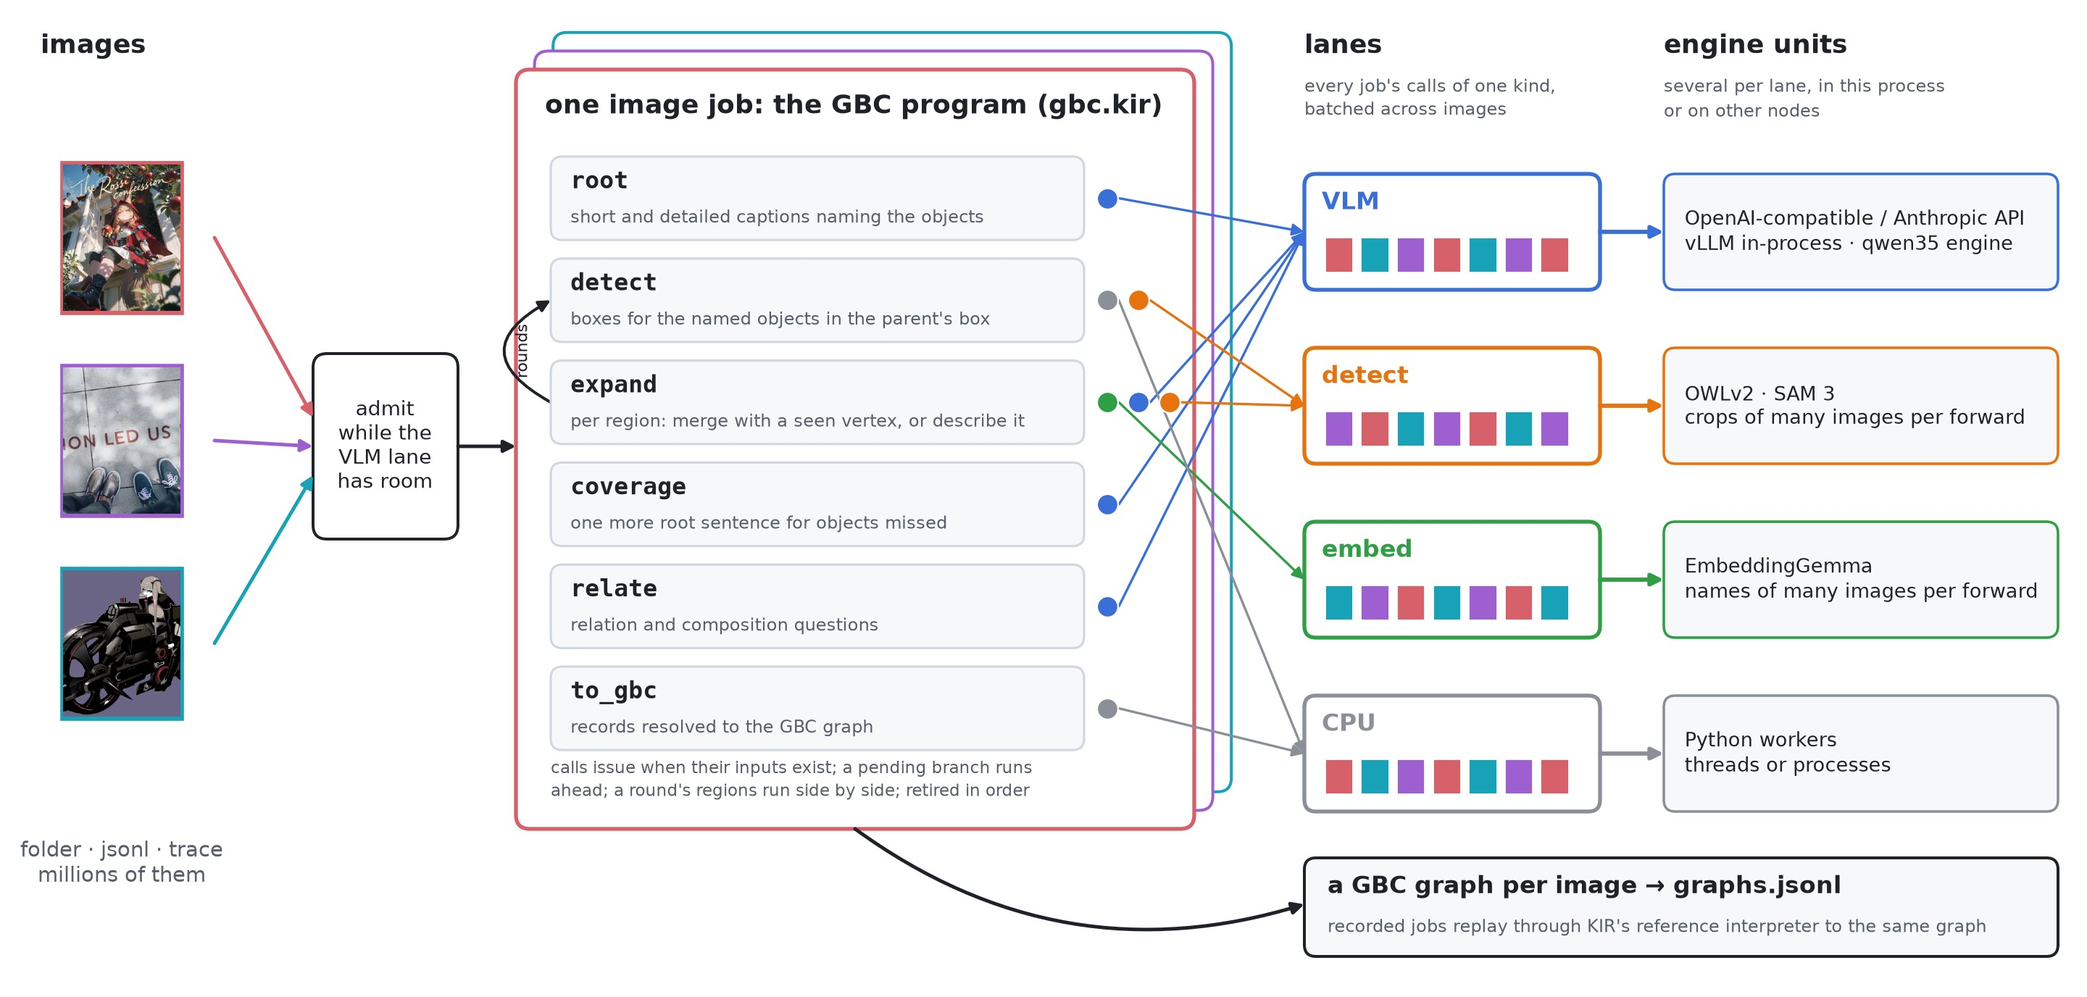
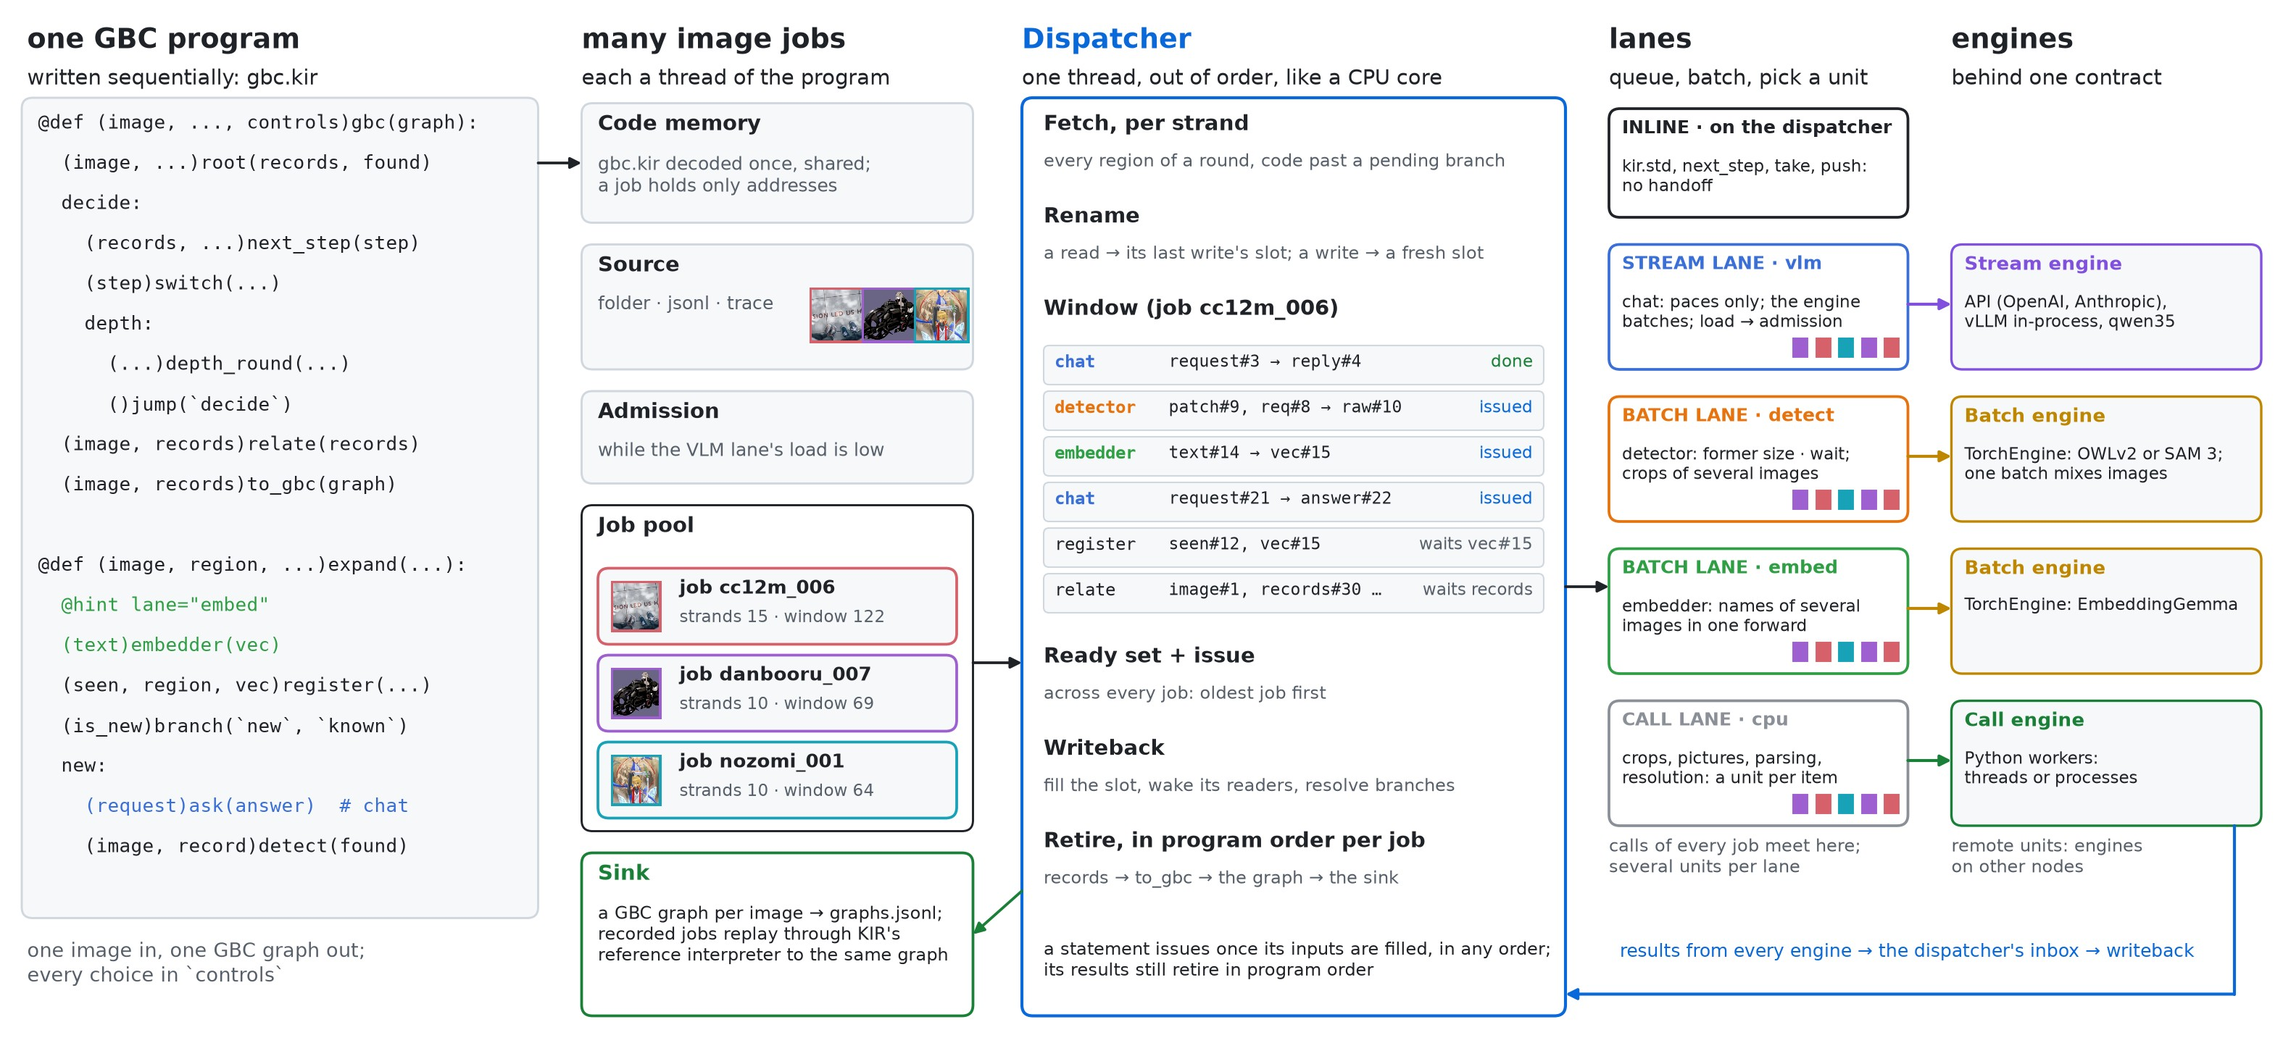
Architecture teaser in the Togeari machine's shape
One GBC program; many image jobs (code memory, source, admission, a job pool of recorded jobs,
the sink); the dispatcher's out-of-order core with a job's window of GBC statements; the inline,
VLM stream, detect and embed batch and CPU call lanes; the engines behind them; completions back
to the dispatcher.

diff --git a/scripts/docs/architecture.py b/scripts/docs/architecture.py
@@ -1,14 +1,19 @@
-"""The README's architecture view: KohakuGBC as one picture.
+"""The README's architecture teaser: GBC on the Togeari machine, in Togeari's own shape.
 
-Images enter through admission; each becomes a job running the one GBC program (its steps in
-order, each marked with the lanes it calls); the calls of every job meet on four lanes, which
-batch them across images onto the engine units behind them; each job ends as a GBC graph, and a
-recorded job replays through KIR's reference interpreter to the same graph.
+Five columns, left to right: the one GBC program (gbc.kir); the image jobs (code memory, the
+source, admission, the job pool with real jobs of a recorded run, the sink); the dispatcher, an
+out-of-order core (fetch per strand, rename, a job's window of GBC statements, issue, writeback,
+retire in program order); the lanes (inline, the VLM stream lane, the detect and embed batch
+lanes, the CPU call lane); the engines behind them. Completions return to the dispatcher's inbox.
 
-    python scripts/docs/architecture.py IMAGE [IMAGE ...] docs/assets/architecture.jpg
+    python scripts/docs/architecture.py JOBS.json docs/assets/architecture.jpg
+
+``JOBS.json``: ``[{"image": path, "key": ..., "calls": ..., "strands": ..., "window": ...,
+"vlm": ...}]``, three jobs of a recorded run (``job.end`` events' stats).
 """
 
 import argparse
+import json
 import sys
 
 import matplotlib.pyplot as plt
@@ -17,150 +22,220 @@ from matplotlib.offsetbox import AnnotationBbox, OffsetImage
 from PIL import Image, ImageOps
 
 INK, MUTED, PAPER, CARD, LINE = "#1f2328", "#57606a", "#ffffff", "#f6f8fa", "#d0d7de"
-LANES = {
-    "vlm": ("#3b6fd8", "VLM"),
-    "detect": ("#e6730d", "detect"),
-    "embed": ("#2f9e44", "embed"),
-    "cpu": ("#8a8f98", "CPU"),
-}
-JOBS = ["#d6616b", "#9e5fd1", "#17a2b8"]
-STEPS = [
-    ("root", "short and detailed captions naming the objects", ["vlm"]),
-    ("detect", "boxes for the named objects in the parent's box", ["cpu", "detect"]),
-    ("expand", "per region: merge with a seen vertex, or describe it", ["embed", "vlm", "detect"]),
-    ("coverage", "one more root sentence for objects missed", ["vlm"]),
-    ("relate", "relation and composition questions", ["vlm"]),
-    ("to_gbc", "records resolved to the GBC graph", ["cpu"]),
+BLUE, VIOLET, GOLD, GREEN, GREY = "#0969da", "#8250df", "#bf8700", "#1a7f37", "#6e7781"
+LANE = {"vlm": "#3b6fd8", "detect": "#e6730d", "embed": "#2f9e44", "cpu": "#8a8f98"}
+JOB = ["#d6616b", "#9e5fd1", "#17a2b8"]
+
+CODE = [
+    "@def (image, ..., controls)gbc(graph):",
+    "  (image, ...)root(records, found)",
+    "  decide:",
+    "    (records, ...)next_step(step)",
+    "    (step)switch(...)",
+    "    depth:",
+    "      (...)depth_round(...)",
+    "      ()jump(`decide`)",
+    "  (image, records)relate(records)",
+    "  (image, records)to_gbc(graph)",
+    "",
+    "@def (image, region, ...)expand(...):",
+    '  @hint lane="embed"',
+    "  (text)embedder(vec)",
+    "  (seen, region, vec)register(...)",
+    "  (is_new)branch(`new`, `known`)",
+    "  new:",
+    "    (request)ask(answer)  # chat",
+    "    (image, record)detect(found)",
 ]
-ENGINES = {
-    "vlm": "OpenAI-compatible / Anthropic API\nvLLM in-process · qwen35 engine",
-    "detect": "OWLv2 · SAM 3\ncrops of many images per forward",
-    "embed": "EmbeddingGemma\nnames of many images per forward",
-    "cpu": "Python workers\nthreads or processes",
-}
+WINDOW = [
+    ("chat", "request#3 → reply#4", "done"),
+    ("detector", "patch#9, req#8 → raw#10", "issued"),
+    ("embedder", "text#14 → vec#15", "issued"),
+    ("chat", "request#21 → answer#22", "issued"),
+    ("register", "seen#12, vec#15", "waits vec#15"),
+    ("relate", "image#1, records#30 …", "waits records"),
+]
 
 
-def box(ax, x, y, w, h, face=CARD, edge=LINE, lw=1.6, radius=0.12, z=1):
-    style = f"round,pad=0,rounding_size={radius}"
-    ax.add_patch(patches.FancyBboxPatch((x, y), w, h, boxstyle=style, facecolor=face,
-                                        edgecolor=edge, lw=lw, zorder=z))  # fmt: skip
+def box(ax, x, y, w, h, face=CARD, edge=LINE, lw=1.4, r=0.1, z=1):
+    ax.add_patch(patches.FancyBboxPatch(
+        (x, y), w, h, boxstyle=f"round,pad=0,rounding_size={r}", facecolor=face, edgecolor=edge,
+        lw=lw, zorder=z,
+    ))  # fmt: skip
 
 
-def arrow(ax, a, b, colour=MUTED, lw=2.0, style="-|>", rad=0.0, dashed=False, z=2):
-    ax.annotate("", xy=b, xytext=a, zorder=z, arrowprops={
-        "arrowstyle": f"{style},head_length=0.6,head_width=0.3", "color": colour, "lw": lw,
+def arrow(ax, a, b, colour=MUTED, lw=1.8, rad=0.0, dashed=False):
+    ax.annotate("", xy=b, xytext=a, zorder=6, arrowprops={
+        "arrowstyle": "-|>,head_length=0.6,head_width=0.3", "color": colour, "lw": lw,
         "connectionstyle": f"arc3,rad={rad}", "linestyle": (0, (5, 3)) if dashed else "-",
         "shrinkA": 0, "shrinkB": 0,
     })  # fmt: skip
 
 
-def thumb(path: str, side: int = 220) -> Image.Image:
-    img = ImageOps.exif_transpose(Image.open(path)).convert("RGB")
-    return ImageOps.fit(img, (side, int(side * 1.25)))
+def text(ax, x, y, s, size, colour=INK, bold=False, mono=False, **kw):
+    weight = "bold" if bold else "normal"
+    family = "monospace" if mono else None
+    ax.text(x, y, s, fontsize=size, color=colour, fontweight=weight, family=family,
+            va=kw.pop("va", "top"), zorder=7, **kw)  # fmt: skip
+
+
+def thumb(ax, path, x, y, zoom, edge):
+    img = ImageOps.fit(ImageOps.exif_transpose(Image.open(path)).convert("RGB"), (160, 160))
+    ax.add_artist(AnnotationBbox(OffsetImage(img, zoom=zoom), (x, y), frameon=True, pad=0.06,
+                                 bboxprops={"edgecolor": edge, "lw": 2.4}, zorder=8))  # fmt: skip
 
 
 def main() -> int:
     parser = argparse.ArgumentParser(description=__doc__)
-    parser.add_argument("images", nargs="+", help="a few images for the source, then the output")
-    parser.add_argument("--font", type=float, default=15.0)
-    parser.add_argument("--dpi", type=int, default=160)
+    parser.add_argument("jobs")
+    parser.add_argument("out")
+    parser.add_argument("--font", type=float, default=14.0)
+    parser.add_argument("--dpi", type=int, default=150)
     args = parser.parse_args()
-    *images, out = args.images
-    size = args.font
+    with open(args.jobs, encoding="utf-8") as f:
+        jobs = json.load(f)[:3]
+    s = args.font
 
-    fig = plt.figure(figsize=(18, 8.6), facecolor=PAPER)
+    fig = plt.figure(figsize=(21, 9.6), facecolor=PAPER)
     ax = fig.add_axes([0, 0, 1, 1])
-    ax.set_xlim(0, 18)
-    ax.set_ylim(0, 8.6)
+    ax.set_xlim(0, 21)
+    ax.set_ylim(0, 9.6)
     ax.axis("off")
+    top = 9.35
 
-    # ---- images and admission ---------------------------------------------------------------
-    ax.text(0.35, 8.2, "images", fontsize=size + 1, fontweight="bold", color=INK, va="center")
-    for k, path in enumerate(images[:3]):
-        y = 6.55 - k * 1.75
-        ab = AnnotationBbox(OffsetImage(thumb(path), zoom=0.33), (1.05, y), frameon=True,
-                            pad=0.08, bboxprops={"edgecolor": JOBS[k % 3], "lw": 3})  # fmt: skip
-        ax.add_artist(ab)
-        arrow(ax, (1.85, y), (2.7, 4.75 - (k - 1) * 0.25), colour=JOBS[k % 3], lw=2.2)
-    ax.text(1.05, 1.15, "folder · jsonl · trace\nmillions of them", fontsize=size - 2,
-            color=MUTED, ha="center", va="center")  # fmt: skip
-    box(ax, 2.7, 3.95, 1.25, 1.6, face=PAPER, edge=INK, lw=1.8)
-    ax.text(3.32, 4.75, "admit\nwhile the\nVLM lane\nhas room", fontsize=size - 2.5, ha="center",
-            va="center", color=INK)  # fmt: skip
+    # ---- 1. one program ---------------------------------------------------------------------
+    text(ax, 0.25, top, "one GBC program", s + 4, bold=True)
+    text(ax, 0.25, top - 0.38, "written sequentially: gbc.kir", s)
+    box(ax, 0.2, 1.15, 4.75, 7.55, face=CARD)
+    for i, line in enumerate(CODE):
+        colour = LANE["embed"] if "embedder" in line or "lane=" in line else (
+            LANE["vlm"] if "ask" in line else INK)  # fmt: skip
+        text(ax, 0.35, 8.55 - i * 0.37, line, s - 1.5, colour=colour, mono=True)
+    text(ax, 0.25, 0.95, "one image in, one GBC graph out;\nevery choice in `controls`", s - 1,
+         colour=MUTED)  # fmt: skip
 
-    # ---- the job: one GBC program ------------------------------------------------------------
-    jx, jy, jw, jh = 4.45, 1.45, 5.85, 6.55
-    for k in (2, 1):
-        box(ax, jx + 0.16 * k, jy + 0.16 * k, jw, jh, face=PAPER, edge=JOBS[k], lw=1.8, z=0)
-    box(ax, jx, jy, jw, jh, face=PAPER, edge=JOBS[0], lw=2.4, z=1)
-    arrow(ax, (3.95, 4.75), (jx, 4.75), colour=INK, lw=2.2)
-    ax.text(jx + 0.25, jy + jh - 0.32, "one image job: the GBC program (gbc.kir)",
-            fontsize=size + 1, fontweight="bold", color=INK, va="center", zorder=3)  # fmt: skip
-    step_h, gap = 0.72, 0.16
-    top = jy + jh - 0.75
-    anchors = {}
-    step_w = jw - 1.25
-    for i, (name, what, lanes) in enumerate(STEPS):
-        y = top - i * (step_h + gap) - step_h
-        box(ax, jx + 0.3, y, step_w, step_h, face=CARD, edge=LINE, lw=1.4, radius=0.1, z=3)
-        ax.text(jx + 0.47, y + step_h / 2 + 0.14, name, fontsize=size, fontweight="bold",
-                color=INK, va="center", zorder=4, family="monospace")  # fmt: skip
-        ax.text(jx + 0.47, y + step_h / 2 - 0.17, what, fontsize=size - 4, color=MUTED,
-                va="center", zorder=4)  # fmt: skip
-        # The lanes this step calls: dots in a row beside the step
-        for k, lane in enumerate(lanes):
-            cx = jx + 0.3 + step_w + 0.2 + k * 0.27
-            cy = y + step_h / 2
-            ax.scatter([cx], [cy], s=170, color=LANES[lane][0], zorder=5, edgecolors=PAPER)
-            anchors.setdefault(lane, []).append((cx, cy))
-    # The rounds: detect and expand repeat until the node budget is met
-    y_detect = top - 1 * (step_h + gap) - step_h / 2
-    y_expand = top - 2 * (step_h + gap) - step_h / 2
-    arrow(ax, (jx + 0.3, y_expand), (jx + 0.3, y_detect), colour=INK, lw=1.8, rad=-0.9)
-    ax.text(jx + 0.06, (y_detect + y_expand) / 2, "rounds", fontsize=size - 5, color=INK,
-            rotation=90, ha="center", va="center")  # fmt: skip
-    ax.text(jx + 0.3, jy + 0.42, "calls issue when their inputs exist; a pending branch runs\n"
-            "ahead; a round's regions run side by side; retired in order", fontsize=size - 4.5,
-            color=MUTED, ha="left", va="center", zorder=4, linespacing=1.35)  # fmt: skip
+    # ---- 2. many image jobs -------------------------------------------------------------------
+    x2 = 5.35
+    text(ax, x2, top, "many image jobs", s + 4, bold=True)
+    text(ax, x2, top - 0.38, "each a thread of the program", s)
+    box(ax, x2, 7.55, 3.6, 1.1)
+    text(ax, x2 + 0.15, 8.55, "Code memory", s, bold=True)
+    text(ax, x2 + 0.15, 8.18, "gbc.kir decoded once, shared;\na job holds only addresses", s - 2,
+         colour=MUTED)  # fmt: skip
+    box(ax, x2, 6.2, 3.6, 1.15)
+    text(ax, x2 + 0.15, 7.25, "Source", s, bold=True)
+    text(ax, x2 + 0.15, 6.88, "folder · jsonl · trace", s - 2, colour=MUTED)
+    for k, job in enumerate(jobs):
+        thumb(ax, job["image"], x2 + 2.35 + k * 0.48, 6.7, 0.21, JOB[k])
+    box(ax, x2, 5.15, 3.6, 0.85)
+    text(ax, x2 + 0.15, 5.9, "Admission", s, bold=True)
+    text(ax, x2 + 0.15, 5.53, "while the VLM lane's load is low", s - 2, colour=MUTED)
+    box(ax, x2, 1.95, 3.6, 3.0, face=PAPER, edge=INK)
+    text(ax, x2 + 0.15, 4.85, "Job pool", s, bold=True)
+    for k, job in enumerate(jobs):
+        y = 4.35 - k * 0.8
+        box(ax, x2 + 0.15, y - 0.68, 3.3, 0.7, face=CARD, edge=JOB[k], lw=1.8, z=2)
+        thumb(ax, job["image"], x2 + 0.5, y - 0.33, 0.19, JOB[k])
+        text(ax, x2 + 0.9, y - 0.08, f"job {job['key']}", s - 1.5, bold=True)
+        text(ax, x2 + 0.9, y - 0.36, f"strands {job['strands']} · window {job['window']}",
+             s - 3, colour=MUTED)  # fmt: skip
+    box(ax, x2, 0.25, 3.6, 1.5, face=PAPER, edge=GREEN, lw=1.8)
+    text(ax, x2 + 0.15, 1.65, "Sink", s, colour=GREEN, bold=True)
+    text(ax, x2 + 0.15, 1.28, "a GBC graph per image → graphs.jsonl;\nrecorded jobs replay "
+         "through KIR's\nreference interpreter to the same graph", s - 2.5, colour=INK)  # fmt: skip
+    arrow(ax, (4.95, 8.1), (x2, 8.1), colour=INK)
 
-    # ---- lanes and engines --------------------------------------------------------------------
-    lx, lw_, ex, ew = 11.25, 2.55, 14.35, 3.4
-    ax.text(lx, 8.2, "lanes", fontsize=size + 1, fontweight="bold", color=INK, va="center")
-    ax.text(lx, 7.75, "every job's calls of one kind,\nbatched across images", fontsize=size - 4,
-            color=MUTED, va="center", linespacing=1.3)  # fmt: skip
-    ax.text(ex, 8.2, "engine units", fontsize=size + 1, fontweight="bold", color=INK,
-            va="center")  # fmt: skip
-    ax.text(ex, 7.75, "several per lane, in this process\nor on other nodes", fontsize=size - 4,
-            color=MUTED, va="center", linespacing=1.3)  # fmt: skip
-    lane_y = {}
-    for i, (lane, (colour, name)) in enumerate(LANES.items()):
-        y = 6.6 - i * 1.5
-        lane_y[lane] = y
-        box(ax, lx, y - 0.5, lw_, 1.0, face=PAPER, edge=colour, lw=2.4, radius=0.1)
-        ax.text(lx + 0.15, y + 0.25, name, fontsize=size, fontweight="bold", color=colour,
-                va="center")  # fmt: skip
-        # A queue of calls from several images
-        for q in range(7):
-            ax.add_patch(patches.Rectangle((lx + 0.18 + q * 0.31, y - 0.35), 0.24, 0.3,
-                                           facecolor=JOBS[(q * 2 + i) % 3], edgecolor=PAPER,
-                                           lw=0.8, zorder=3))  # fmt: skip
-        box(ax, ex, y - 0.5, ew, 1.0, face=CARD, edge=colour, lw=1.6, radius=0.1)
-        ax.text(ex + 0.18, y, ENGINES[lane], fontsize=size - 3, color=INK, va="center",
-                linespacing=1.3)  # fmt: skip
-        arrow(ax, (lx + lw_, y), (ex, y), colour=colour, lw=2.6)
-        for cx, cy in anchors.get(lane, []):
-            arrow(ax, (cx + 0.1, cy), (lx, y), colour=colour, lw=1.5, rad=0.0)
+    # ---- 3. the dispatcher ---------------------------------------------------------------------
+    x3, w3 = 9.4, 5.0
+    text(ax, x3, top, "Dispatcher", s + 4, colour=BLUE, bold=True)
+    text(ax, x3, top - 0.38, "one thread, out of order, like a CPU core", s)
+    box(ax, x3, 0.25, w3, 8.45, face=PAPER, edge=BLUE, lw=2.0, z=0)
+    rows = [
+        ("Fetch, per strand", "every region of a round, code past a pending branch", 8.55),
+        ("Rename", "a read → its last write's slot; a write → a fresh slot", 7.7),
+    ]
+    for title, body, y in rows:
+        text(ax, x3 + 0.2, y, title, s, bold=True)
+        text(ax, x3 + 0.2, y - 0.36, body, s - 2.5, colour=MUTED)
+    text(ax, x3 + 0.2, 6.85, f"Window (job {jobs[0]['key']})", s, bold=True)
+    for i, (node, slots, state) in enumerate(WINDOW):
+        y = 6.4 - i * 0.42
+        box(ax, x3 + 0.2, y - 0.34, w3 - 0.4, 0.36, face=CARD, edge=LINE, lw=1.0, r=0.05, z=2)
+        lane = {"chat": "vlm", "detector": "detect", "embedder": "embed"}.get(node)
+        text(ax, x3 + 0.3, y - 0.06, node, s - 2.5, colour=LANE[lane] if lane else INK, mono=True,
+             bold=bool(lane))  # fmt: skip
+        text(ax, x3 + 1.35, y - 0.06, slots, s - 3, mono=True)
+        text(ax, x3 + w3 - 0.3, y - 0.06, state, s - 3, colour=GREEN if state == "done" else
+             (BLUE if state == "issued" else MUTED), ha="right")  # fmt: skip
+    rows = [
+        ("Ready set + issue", "across every job: oldest job first", 3.65),
+        ("Writeback", "fill the slot, wake its readers, resolve branches", 2.8),
+        ("Retire, in program order per job", "records → to_gbc → the graph → the sink", 1.95),
+    ]
+    for title, body, y in rows:
+        text(ax, x3 + 0.2, y, title, s, bold=True)
+        text(ax, x3 + 0.2, y - 0.36, body, s - 2.5, colour=MUTED)
+    text(ax, x3 + 0.2, 0.95, "a statement issues once its inputs are filled, in any order;\n"
+         "its results still retire in program order", s - 2.5, colour=INK)  # fmt: skip
+    arrow(ax, (x2 + 3.6, 3.5), (x3, 3.5), colour=INK)
+    arrow(ax, (x3, 1.4), (x2 + 3.6, 1.0), colour=GREEN)
 
-    # ---- the graph and the proof ---------------------------------------------------------------
-    gx, gy = 11.25, 0.35
-    box(ax, gx, gy, 6.5, 0.85, face=CARD, edge=INK, lw=1.8, radius=0.1)
-    ax.text(gx + 0.2, gy + 0.6, "a GBC graph per image → graphs.jsonl", fontsize=size,
-            fontweight="bold", color=INK, va="center")  # fmt: skip
-    ax.text(gx + 0.2, gy + 0.25, "recorded jobs replay through KIR's reference interpreter to the "
-            "same graph", fontsize=size - 4, color=MUTED, va="center")  # fmt: skip
-    arrow(ax, (jx + jw * 0.5, jy), (gx, gy + 0.45), colour=INK, lw=2.2, rad=0.25)
-    fig.savefig(out, dpi=args.dpi, facecolor=PAPER, pil_kwargs={"quality": 90})
-    print(out)
+    # ---- 4. lanes --------------------------------------------------------------------------------
+    x4, w4 = 14.8, 2.75
+    text(ax, x4, top, "lanes", s + 4, bold=True)
+    text(ax, x4, top - 0.38, "queue, batch, pick a unit", s)
+    lanes = [
+        ("INLINE · on the dispatcher", "kir.std, next_step, take, push:\nno handoff",
+         INK, 8.6, 1.0),
+        ("STREAM LANE · vlm", "chat: paces only; the engine\nbatches; load → admission",
+         LANE["vlm"], 7.35, 1.15),
+        ("BATCH LANE · detect", "detector: former size · wait;\ncrops of several images",
+         LANE["detect"], 5.95, 1.15),
+        ("BATCH LANE · embed", "embedder: names of several\nimages in one forward",
+         LANE["embed"], 4.55, 1.15),
+        ("CALL LANE · cpu", "crops, pictures, parsing,\nresolution: a unit per item",
+         LANE["cpu"], 3.15, 1.15),
+    ]  # fmt: skip
+    for title, body, colour, y, h in lanes:
+        box(ax, x4, y - h, w4, h, face=PAPER, edge=colour, lw=1.8)
+        text(ax, x4 + 0.12, y - 0.1, title, s - 2, colour=colour, bold=True)
+        text(ax, x4 + 0.12, y - 0.45, body, s - 3.2, colour=INK)
+        if title.startswith(("STREAM", "BATCH", "CALL")):
+            for q in range(5):
+                ax.add_patch(patches.Rectangle((x4 + w4 - 0.23 - q * 0.21, y - h + 0.1), 0.16,
+                                               0.2, facecolor=JOB[q % 3], edgecolor=PAPER,
+                                               zorder=4))  # fmt: skip
+    text(ax, x4, 1.9, "calls of every job meet here;\nseveral units per lane", s - 2.5,
+         colour=MUTED)  # fmt: skip
+    arrow(ax, (x3 + w3, 4.2), (x4, 4.2), colour=INK)
+
+    # ---- 5. engines ------------------------------------------------------------------------------
+    x5, w5 = 17.95, 2.85
+    text(ax, x5, top, "engines", s + 4, bold=True)
+    text(ax, x5, top - 0.38, "behind one contract", s)
+    engines = [
+        ("Stream engine", "API (OpenAI, Anthropic),\nvLLM in-process, qwen35",
+         VIOLET, 7.35, 1.15, 6.8),
+        ("Batch engine", "TorchEngine: OWLv2 or SAM 3;\none batch mixes images",
+         GOLD, 5.95, 1.15, 5.4),
+        ("Batch engine", "TorchEngine: EmbeddingGemma", GOLD, 4.55, 1.15, 4.0),
+        ("Call engine", "Python workers:\nthreads or processes", GREEN, 3.15, 1.15, 2.6),
+    ]  # fmt: skip
+    for title, body, colour, y, h, mid in engines:
+        box(ax, x5, y - h, w5, h, face=CARD, edge=colour, lw=1.6)
+        text(ax, x5 + 0.12, y - 0.1, title, s - 1.5, colour=colour, bold=True)
+        text(ax, x5 + 0.12, y - 0.45, body, s - 3.2)
+        arrow(ax, (x4 + w4, mid), (x5, mid), colour=colour, lw=2.0)
+    text(ax, x5, 1.9, "remote units: engines\non other nodes", s - 2.5, colour=MUTED)
+    # Completions come back to the dispatcher's inbox, along the bottom
+    xs = [x5 + w5 - 0.25, x5 + w5 - 0.25, x3 + w3]
+    ys = [2.0, 0.45, 0.45]
+    ax.plot(xs[:2], ys[:2], color=BLUE, lw=2.0, zorder=6, solid_capstyle="round")
+    arrow(ax, (xs[1], ys[1]), (xs[2], ys[2]), colour=BLUE, lw=2.0)
+    text(ax, x4 + 0.1, 0.92, "results from every engine → the dispatcher's inbox → writeback",
+         s - 2, colour=BLUE)  # fmt: skip
+    fig.savefig(args.out, dpi=args.dpi, facecolor=PAPER, pil_kwargs={"quality": 90})
+    print(args.out)
     return 0
 
 
